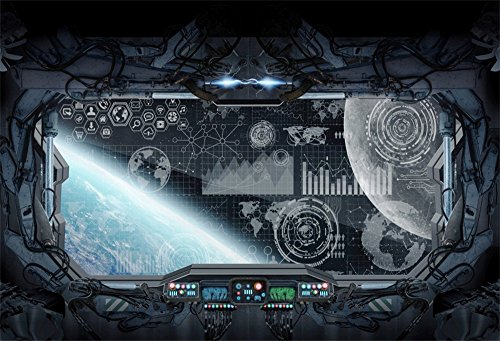
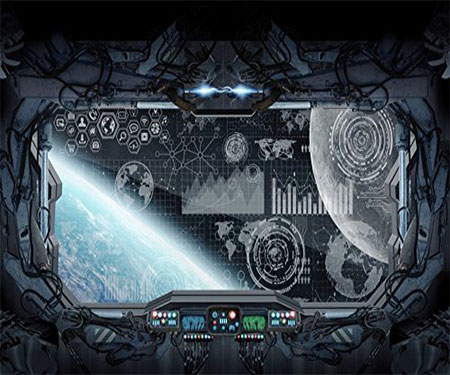
Graphics

diff --git a/index.html b/index.html
@@ -6,16 +6,16 @@
     <title>Space Station</title>
     <meta name="viewport" content="width=device-width, initial-scale=1">
     <script src="https://www.gstatic.com/firebasejs/5.8.1/firebase.js"></script>  
-    <script src="https://cdnjs.cloudflare.com/ajax/libs/jquery/3.2.1/jquery.min.js"></script>
     <link rel="stylesheet" href="https://stackpath.bootstrapcdn.com/bootstrap/4.1.3/css/bootstrap.min.css" integrity="sha384-MCw98/SFnGE8fJT3GXwEOngsV7Zt27NXFoaoApmYm81iuXoPkFOJwJ8ERdknLPMO" crossorigin="anonymous">
     <script src="https://stackpath.bootstrapcdn.com/bootstrap/4.1.3/js/bootstrap.min.js" integrity="sha384-ChfqqxuZUCnJSK3+MXmPNIyE6ZbWh2IMqE241rYiqJxyMiZ6OW/JmZQ5stwEULTy" crossorigin="anonymous"></script>
     <script src="https://cdn.jsdelivr.net/momentjs/2.12.0/moment.min.js"></script>
+    <link href="https://fonts.googleapis.com/css?family=Faster+One" rel="stylesheet">
     <link rel="stylesheet" type="text/css" media="screen" href="assets/css/style.css"/>
 </head>
 <body>
 
     <div class="containers">
-        <img src="assets/images/space9.jpg" width="1450" height="325"  alt="space">
+        <img img="picture" src="assets/images/space21.jpg" width="1440" height="565" alt="space">
         <div class="centered">Space Shuttle Launch</div>
     </div>
       <div>
@@ -65,7 +65,8 @@
         </div>
         </div>        
       </div>
-  
+    
+    <script src="https://cdnjs.cloudflare.com/ajax/libs/jquery/3.2.1/jquery.min.js"></script>
     <script src="assets/javascript/firebase.js"></script>
 
 </body>

diff --git a/assets/javascript/firebase.js b/assets/javascript/firebase.js
@@ -81,7 +81,7 @@ var nextShuttle = presentTime.add(nextShuttle, "minutes");
 // Converts into military time //
 var militaryTime = nextShuttle.format("HH:mm");
 
-
+// Displays input values on the scree //
 $("#rows").append("<tr><td>" + (snapshot.val().nameFirebase) + "</td><td>" + (snapshot.val().destinationFirebase) 
 + "</td><td>" + (snapshot.val().firstShuttleFirebase) + "</td><td>" + (snapshot.val().frequencyFirebase) + "</td><td>" + (snapshot.val().nextShuttle) + "</td></tr>");
 })

diff --git a/assets/css/style.css b/assets/css/style.css
@@ -13,8 +13,16 @@ body {
     top: 10%;
     left: 50%;
     transform: translate(-50%, -50%);
+    color: white;
+    font-size: 30px;
 }
 
 h4 {
     text-align: center;
 }
+
+/* #picture {
+    width: 1500px;
+    height: 450px;
+    margin-left: 30px;
+} */
